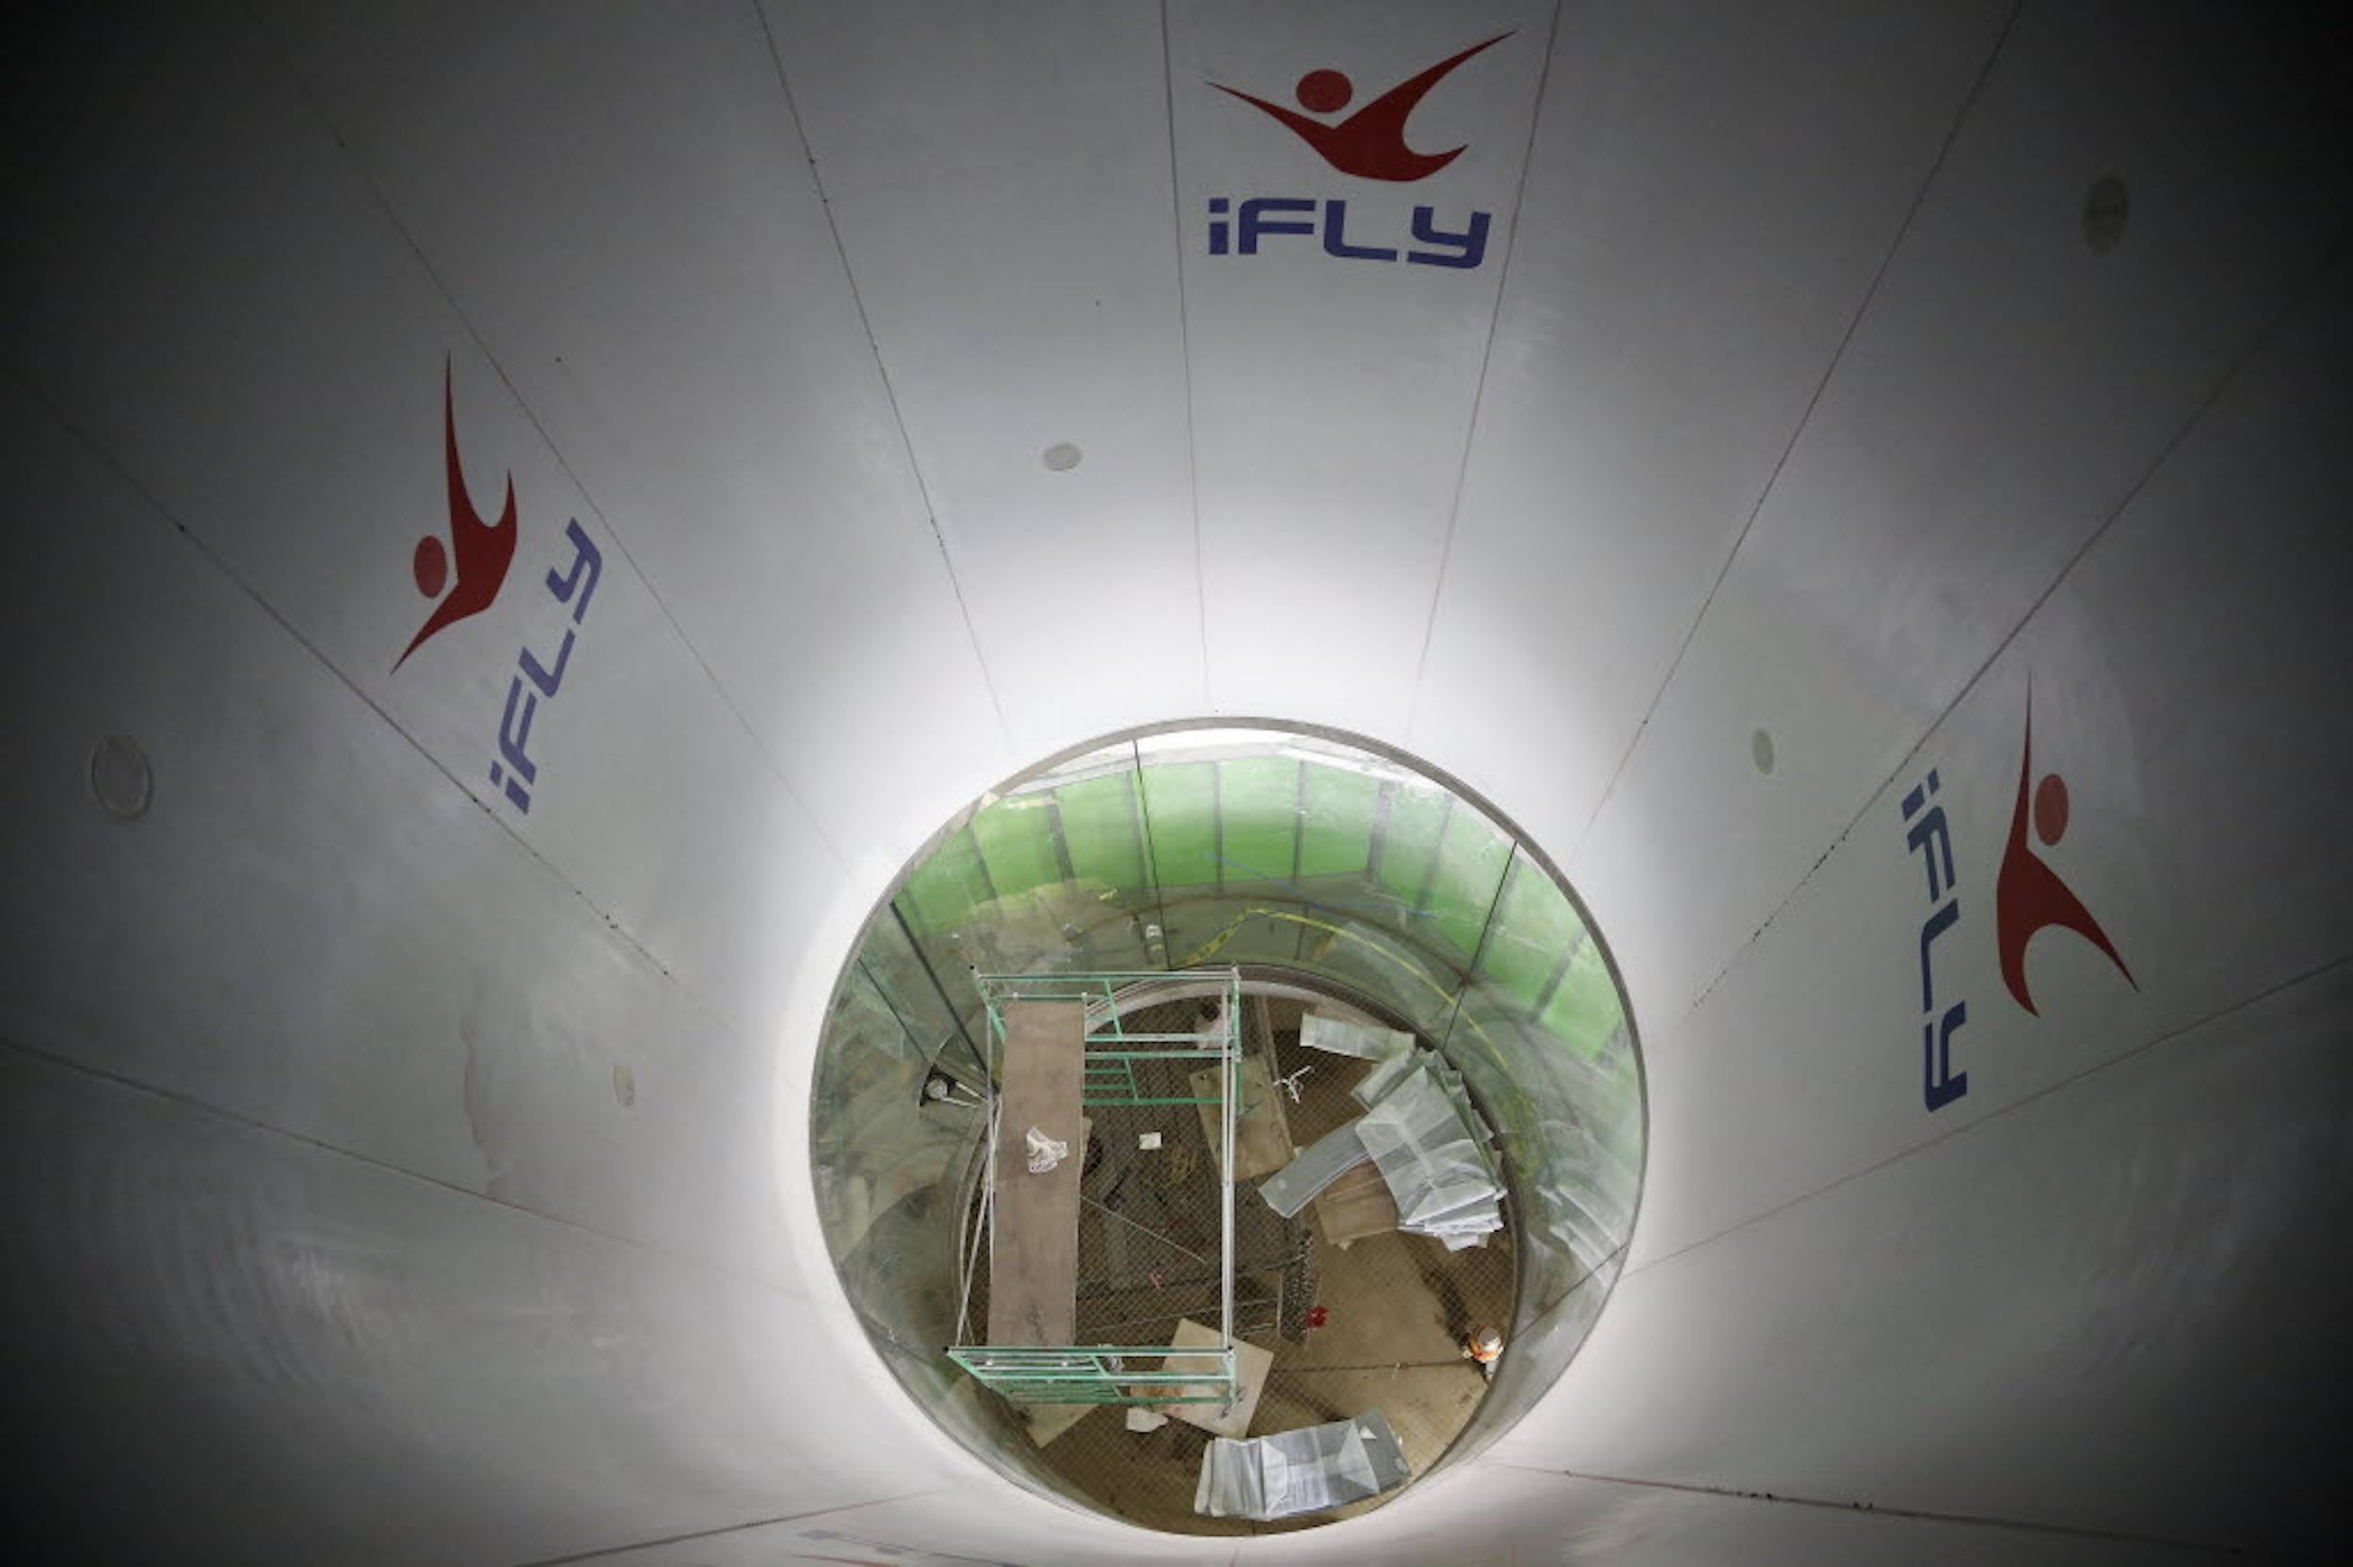
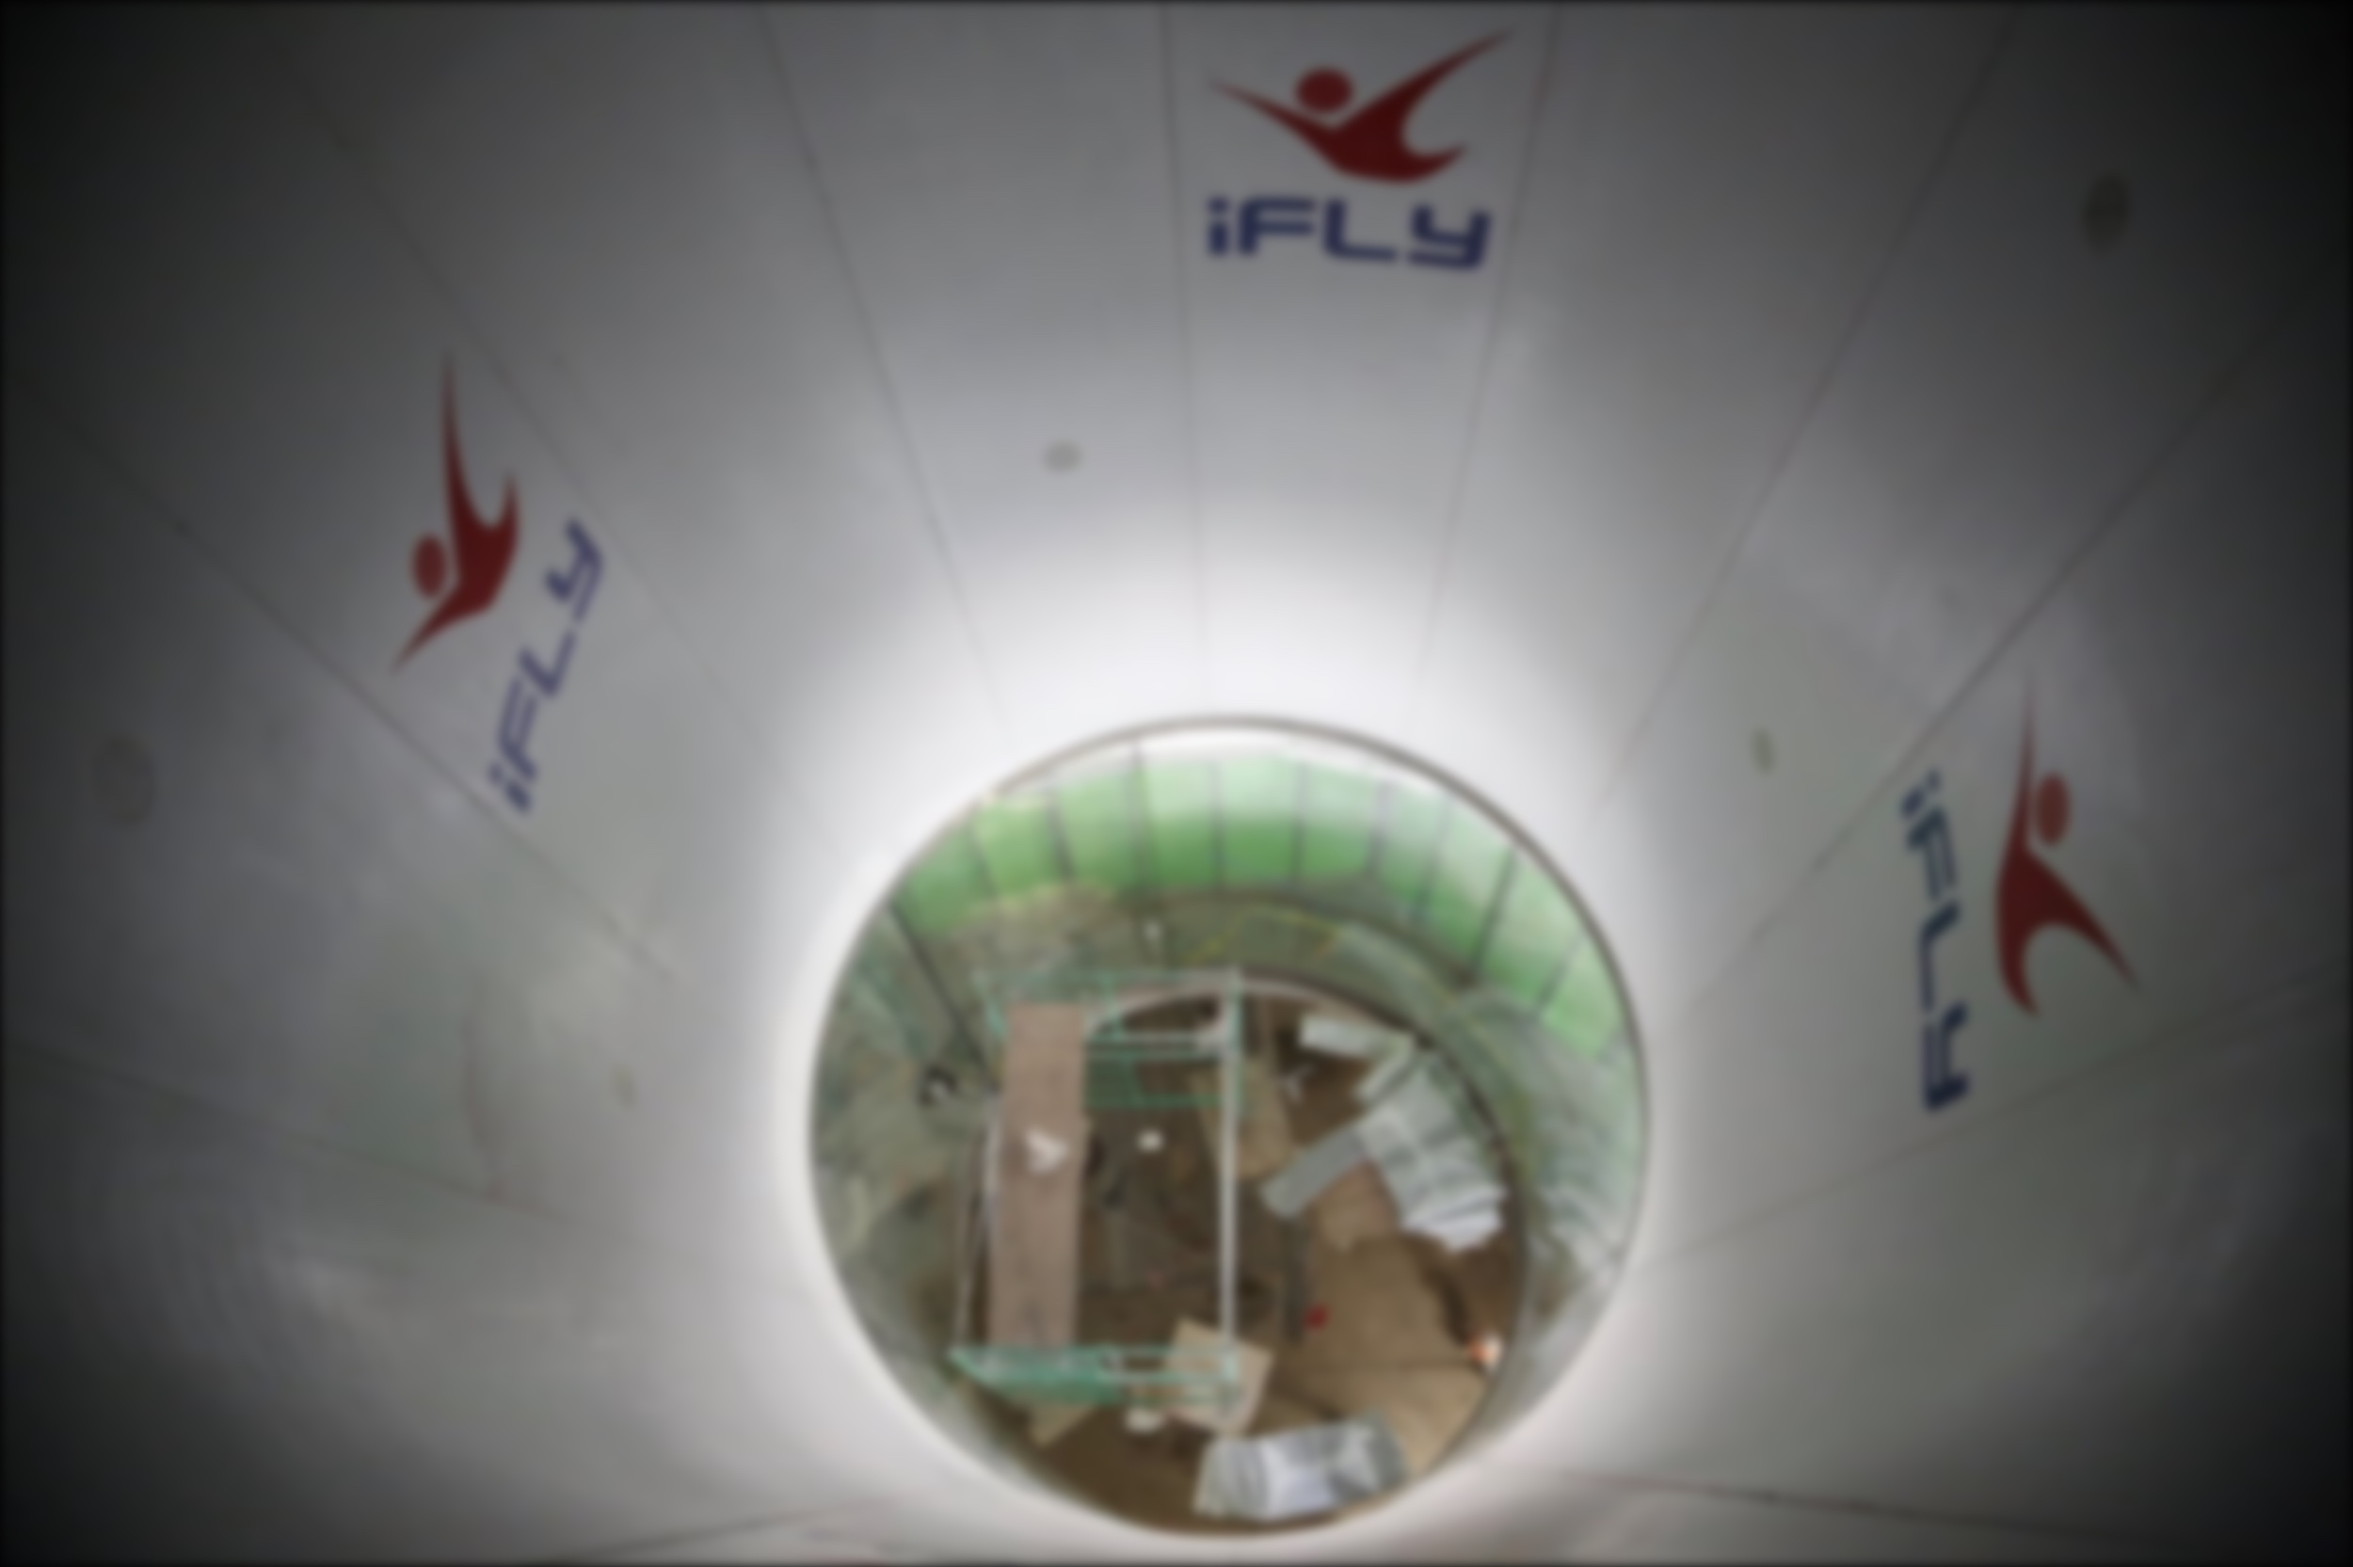
fixing background stuff to make the page sctualyl scroll.. especially important on mobile devices

diff --git a/stylesheets/stylesheet.css b/stylesheets/stylesheet.css
@@ -50,7 +50,7 @@ border-spacing: 0;
 body {
   font-size: 1em;
   line-height: 1.5;
-  bbackground: #e7e7e7 url(../images/highlight-bg.jpg) 50% 0 no-repeat;
+  background: #888888 url(../images/ifly-tunnel1.jpg) 50% 0 no-repeat;
   font-family: 'Helvetica Neue', Helvetica, Arial, serif;
   text-shadow: 0 1px 0 rgba(255, 255, 255, 0.8);
   color: #6d6d6d;

diff --git a/index.html b/index.html
@@ -16,8 +16,7 @@ rel="stylesheet">
 
 
  </head>
-<body bgcolor=#888888>
-<div class="content">
+<body>
     <div id="container">
 
         <header>
@@ -54,6 +53,5 @@ rel="stylesheet">
 					border="0" src="https://www.paypalobjects.com/en_US/i/scr/pixel.gif" width="1" height="1"></form>
     </div>
 
-</div>
   </body>
 </html>
